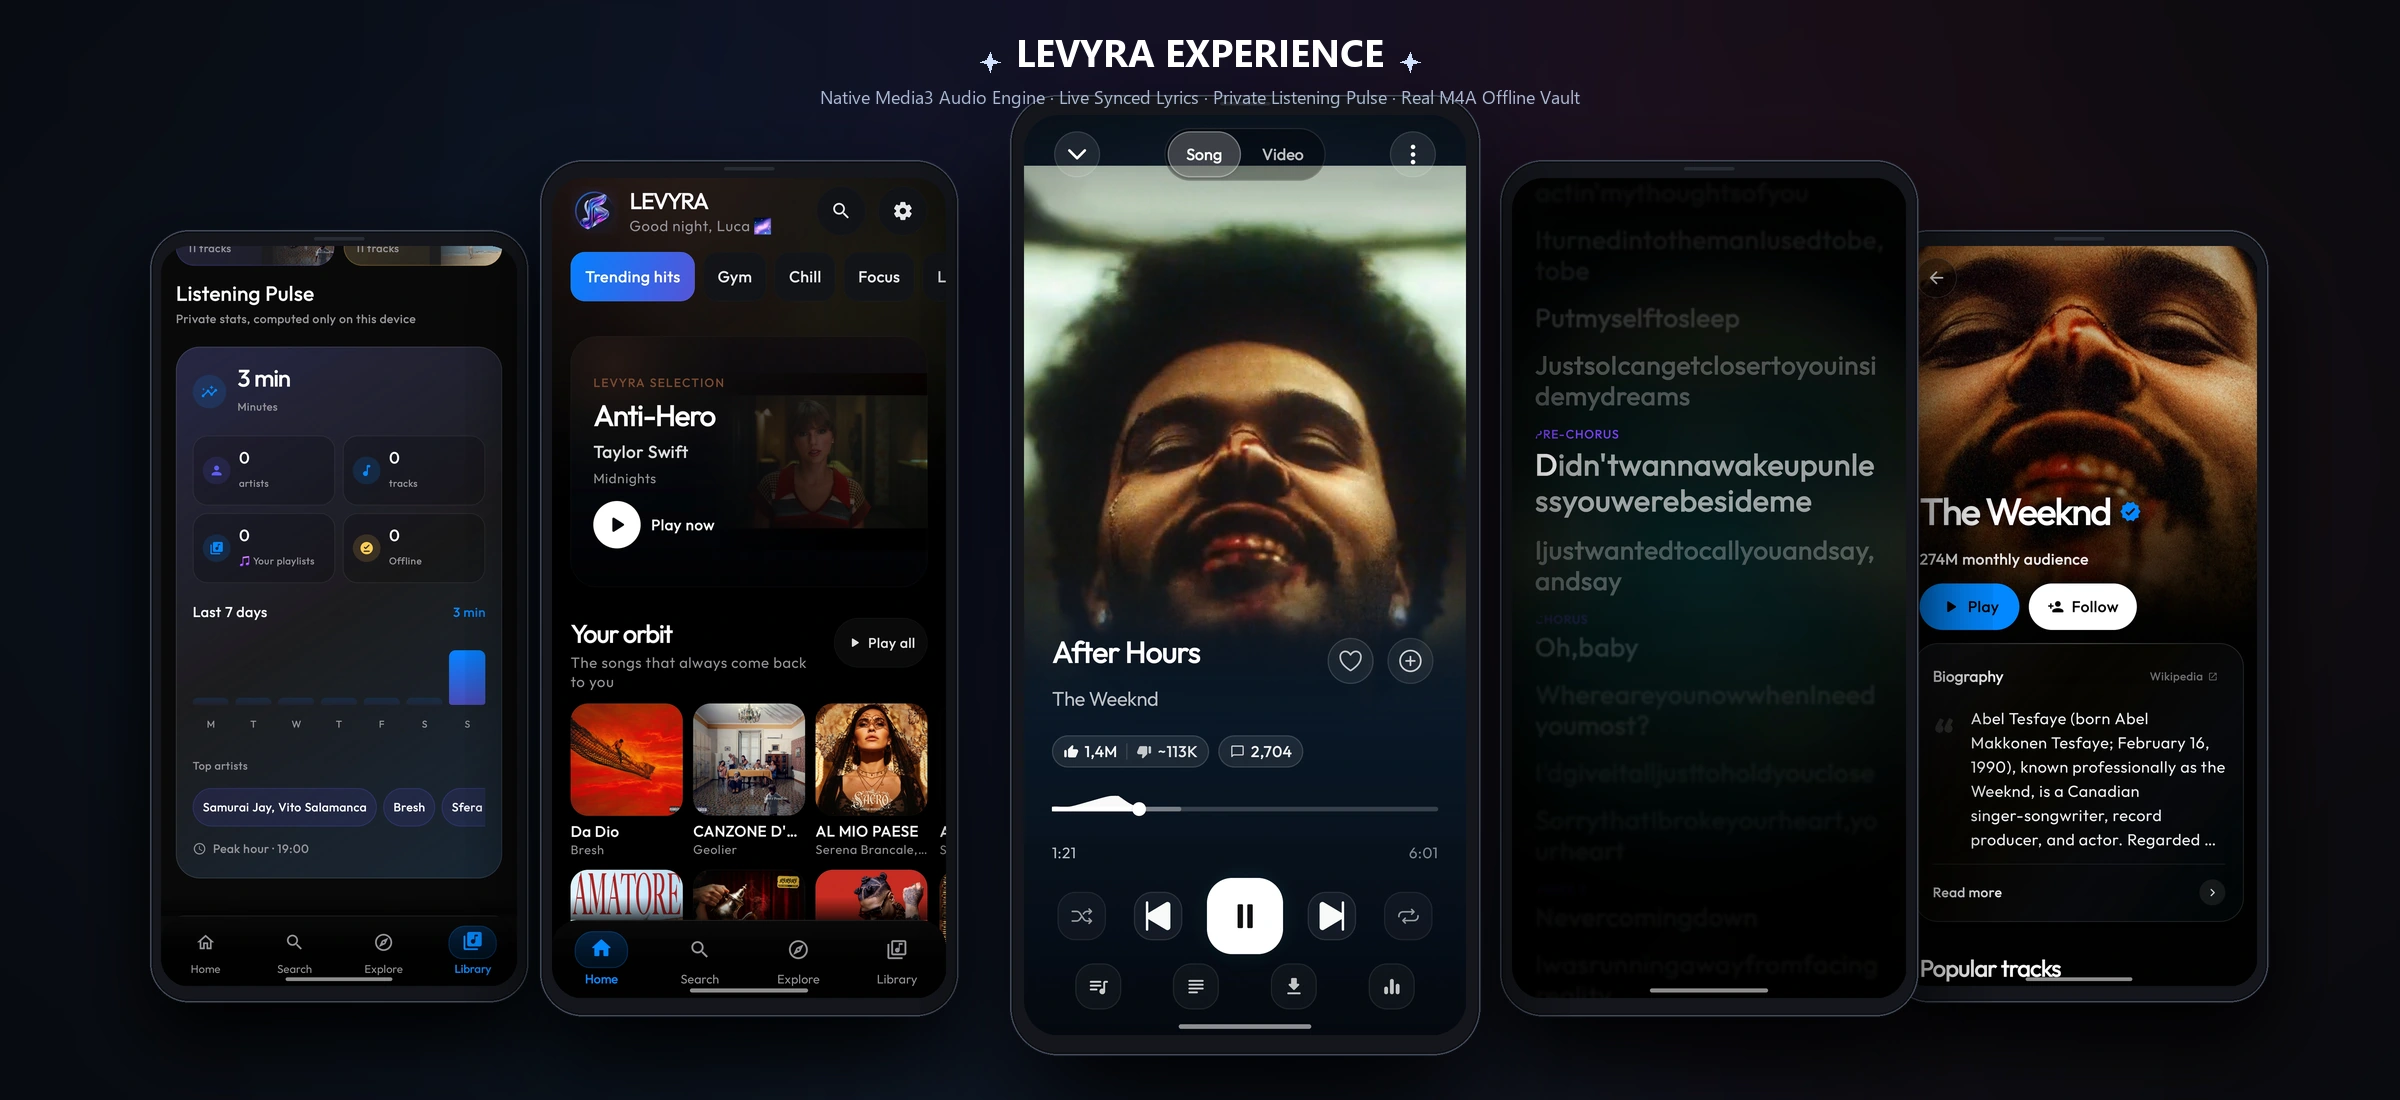
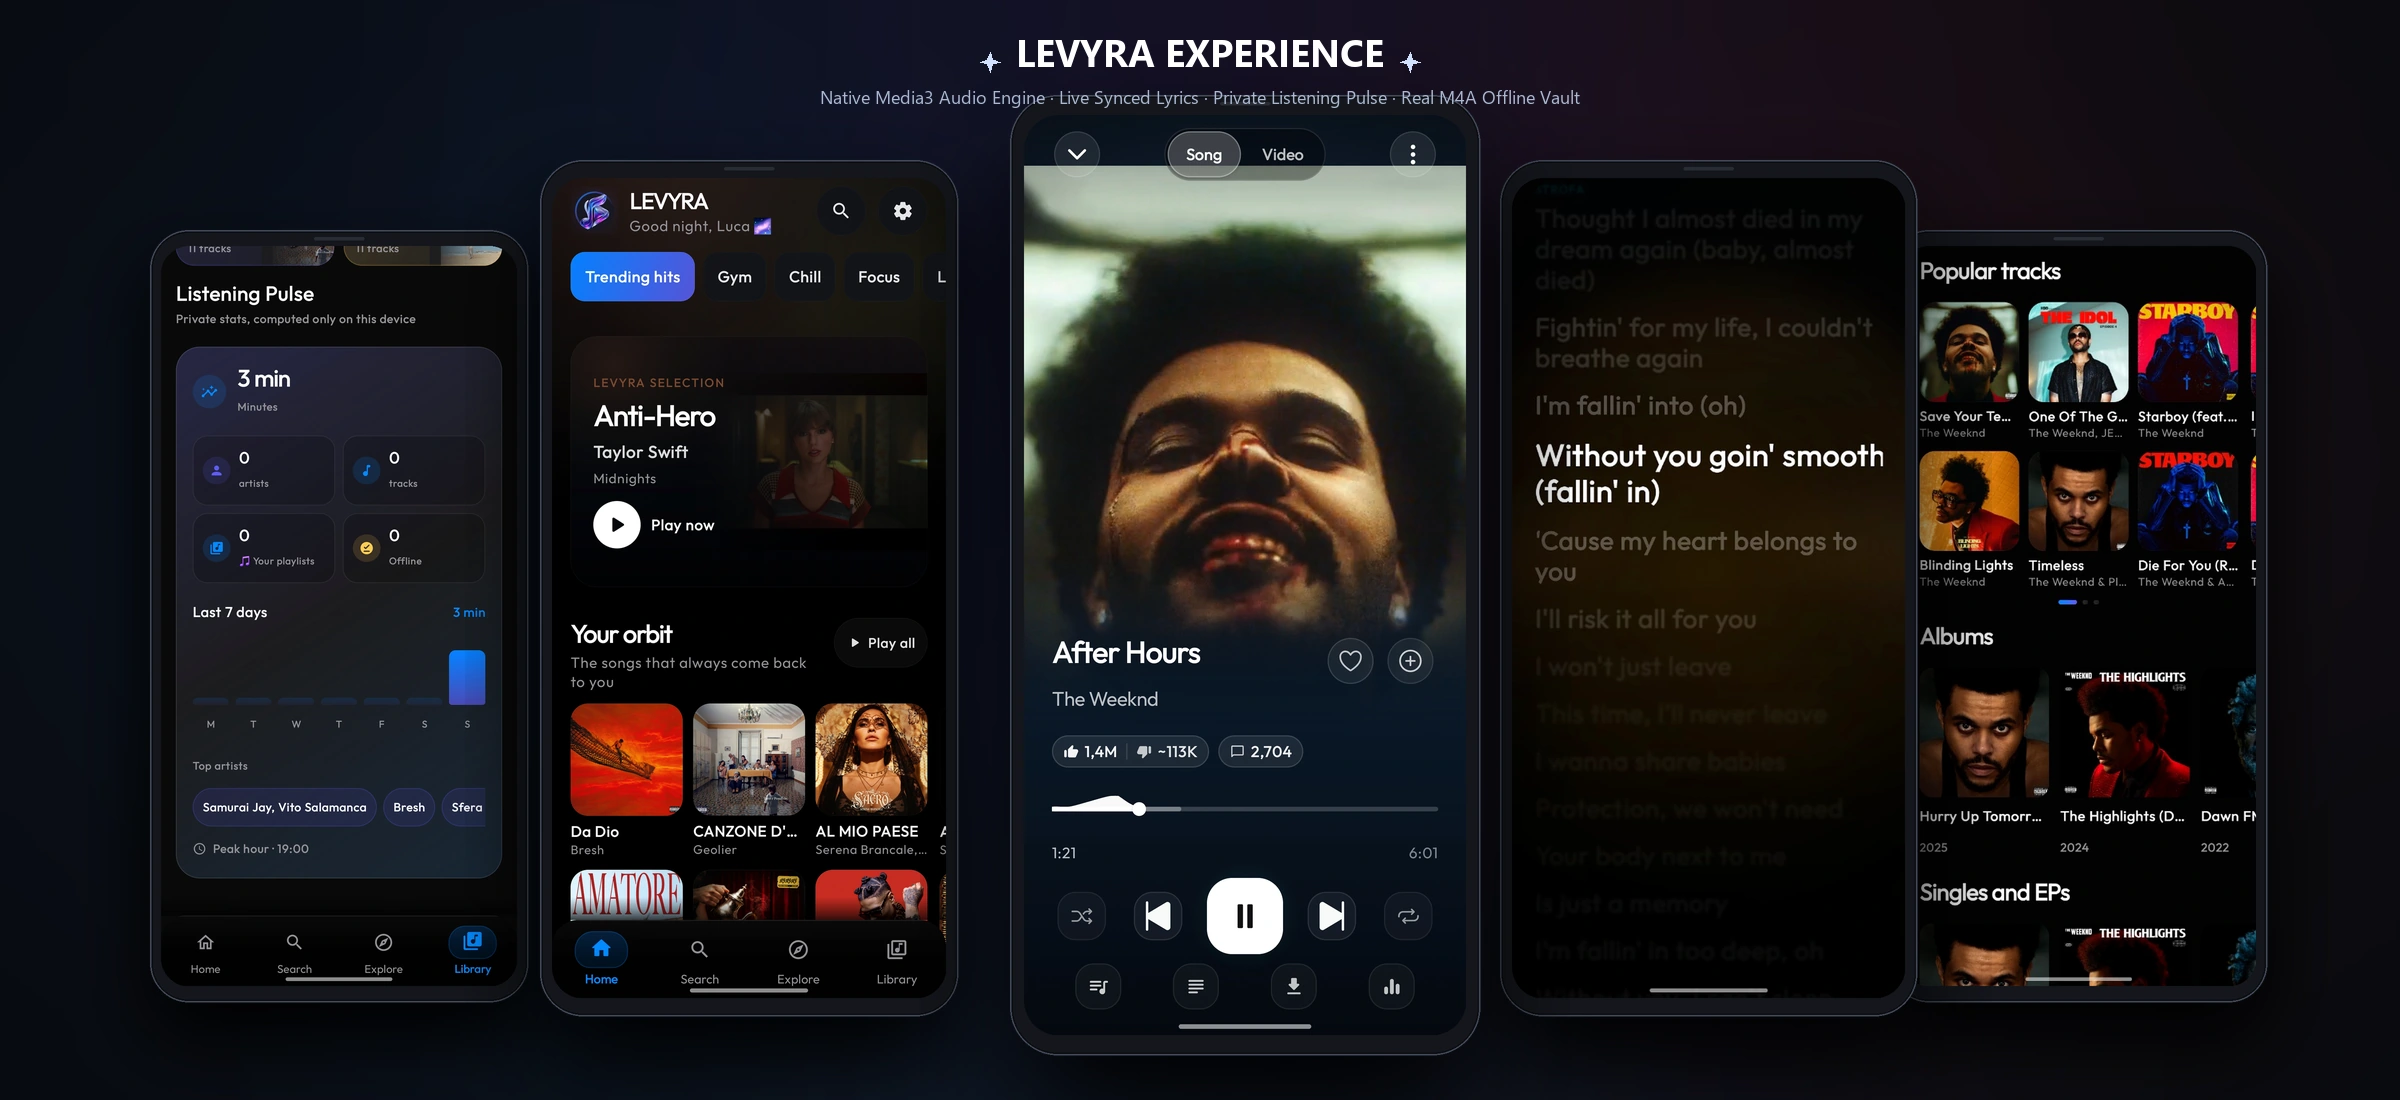
docs: refresh README screenshot showcase

Changed region(s): [[0.625, 0.2164, 0.9688, 0.7727], [0.7812, 0.8036, 0.9375, 0.8964]]

diff --git a/scripts/generate_showcase_assets.py b/scripts/generate_showcase_assets.py
@@ -3,7 +3,7 @@ import math
 import numpy as np
 from PIL import Image, ImageDraw, ImageFilter, ImageFont, ImageEnhance
 
-SCREENSHOT_DIR = r"C:\Users\Luca Drogo\Desktop\screenshot"
+SCREENSHOT_DIR = r"C:\Users\Luca Drogo\Desktop\screenshots"
 OUT_SHOWCASE_DIR = r"docs\assets\showcase"
 OUT_SCREENSHOTS_DIR = r"docs\assets\screenshots"
 
@@ -11,21 +11,14 @@ os.makedirs(OUT_SHOWCASE_DIR, exist_ok=True)
 os.makedirs(OUT_SCREENSHOTS_DIR, exist_ok=True)
 
 SCREENS = {
-    "home_orbit": "Screenshot_20260816_234335_LEVYRA.jpg",
-    "home_top50": "Screenshot_20260816_234345_LEVYRA.jpg",
-    "explore_samples": "Screenshot_20260816_234411_LEVYRA.jpg",
-    "explore_genres": "Screenshot_20260816_234414_LEVYRA.jpg",
-    "library_quickpicks": "Screenshot_20260816_234419_LEVYRA.jpg",
-    "library_pulse": "Screenshot_20260816_234421_LEVYRA.jpg",
-    "player_nowplaying": "Screenshot_20260816_234503_LEVYRA.jpg",
-    "search_artist_avatars": "Screenshot_20260816_234530_LEVYRA.jpg",
-    "lyrics_synced": "Screenshot_20260816_234701_LEVYRA.jpg",
-    "artist_bio": "Screenshot_20260816_234724_LEVYRA.jpg",
-    "artist_discography": "Screenshot_20260816_234730_LEVYRA.jpg",
-    "video_energy": "Screenshot_20260817_145820_LEVYRA.jpg",
-    "search_recent": "Screenshot_20260817_131545_LEVYRA.jpg",
-    "playlist_recent": "Screenshot_20260817_131607_LEVYRA.jpg",
-    "home_collections": "Screenshot_20260817_131624_LEVYRA.jpg",
+    "home": "screen-home.jpg",
+    "charts": "screen-charts.jpg",
+    "genres": "screen-genres.jpg",
+    "listening_pulse": "screen-listening-pulse.jpg",
+    "lyrics": "screen-lyrics.jpg",
+    "now_playing": "screen-player-nowplaying.jpg",
+    "search_artist": "screen-search-artist.jpg",
+    "artist_discography": "screen-artist-discography.jpg",
 }
 
 def get_font(size, bold=False):
@@ -308,8 +301,8 @@ def generate_hero_panoramic_showcase():
     canvas = Image.alpha_composite(canvas, glow3)
     canvas = Image.alpha_composite(canvas, glow4)
 
-    # 5 Key Screens: Library Pulse, Home Orbit, Now Playing, Synced Lyrics, Artist Bio
-    keys = ["library_pulse", "home_orbit", "player_nowplaying", "lyrics_synced", "artist_bio"]
+    # 5 Key Screens: Listening Pulse, Home, Now Playing, Synced Lyrics, Artist Discography
+    keys = ["listening_pulse", "home", "now_playing", "lyrics", "artist_discography"]
     imgs = [Image.open(os.path.join(SCREENSHOT_DIR, SCREENS[k])) for k in keys]
 
     p1 = create_phone_frame(imgs[0], target_height=740) # Pulse
@@ -375,121 +368,6 @@ def main():
     print("Generating refined Levyra showcase assets...")
     generate_individual_framed_screenshots()
     generate_hero_panoramic_showcase()
-
-    # Showcase 1: Now Playing & Live Synced Lyrics
-    generate_studio_dual_card(
-        card_id="01_playback_and_lyrics",
-        title_category="Acoustic Engine & Lyrics",
-        title_main="Immersive Playback &\nLive Synced Lyrics",
-        subtitle="Full-bleed visual canvas with high-res art,\nwaveform scrubber, and real-time LRCLIB karaoke sync.",
-        screen1_key="player_nowplaying",
-        screen2_key="lyrics_synced",
-        primary_glow_color=(235, 75, 90),
-        secondary_glow_color=(160, 70, 255),
-        features_list=[
-            "ExoPlayer & Media3 low-latency audio engine",
-            "Real-time synchronized line-by-line lyrics",
-            "Interactive tap-to-seek lyric scrubbing",
-            "Song & Native Video seamless toggle",
-            "Automatic SponsorBlock & silence skipping"
-        ]
-    )
-
-    # Showcase 2: Home Discovery & Global Top 50
-    generate_studio_dual_card(
-        card_id="02_home_and_charts",
-        title_category="Discovery & Exploration",
-        title_main="Smart Orbit Feed &\nGlobal Top Charts",
-        subtitle="Dynamic discovery tailored to your rhythm,\nwith live Top 50 charts across Italy, USA, UK, and Spain.",
-        screen1_key="home_orbit",
-        screen2_key="home_top50",
-        primary_glow_color=(60, 120, 255),
-        secondary_glow_color=(120, 80, 240),
-        features_list=[
-            "Personalized 'Your Orbit' dynamic rotation",
-            "Live international Top 50 chart selectors",
-            "Curated mood & activity quick chips",
-            "Dual InnerTube & LevyraExtractor pipelines",
-            "Instant prefetching for zero-latency skips"
-        ]
-    )
-
-    # Showcase 3: Deep Search & Artist Immersion
-    generate_studio_dual_card(
-        card_id="03_search_and_artist",
-        title_category="Artist Universe",
-        title_main="Deep Search &\nArtist Discography",
-        subtitle="Instant search suggestions, live artist matching,\nWikipedia biography cards, and full discographies.",
-        screen1_key="search_artist_avatars",
-        screen2_key="artist_bio",
-        primary_glow_color=(240, 160, 50),
-        secondary_glow_color=(210, 60, 120),
-        features_list=[
-            "Real-time search with instant artist bubbles",
-            "Wikipedia biography & monthly audience stats",
-            "Complete chronological albums, singles & EPs",
-            "One-tap follow & artist radio queues",
-            "Voice search & live waveform visualizer"
-        ]
-    )
-
-    # Showcase 4: Offline Vault & Listening Pulse
-    generate_studio_dual_card(
-        card_id="04_library_and_pulse",
-        title_category="Private Vault & Analytics",
-        title_main="Offline M4A Vault &\nListening Pulse",
-        subtitle="Real tagged audio files saved to storage, plus\na private on-device dashboard of your listening habits.",
-        screen1_key="playlist_recent",
-        screen2_key="library_pulse",
-        primary_glow_color=(70, 180, 255),
-        secondary_glow_color=(80, 100, 240),
-        features_list=[
-            "Standard M4A files with embedded tags & art",
-            "Local-first playback: zero network data wasted",
-            "Private 7-day listening activity & streaks",
-            "Real minutes-played ranking (no accidental taps)",
-            "100% on-device SQLite: zero tracking & telemetry"
-        ]
-    )
-
-    # Showcase 5: Video Mode, Samples & Energy Pulse
-    generate_studio_dual_card(
-        card_id="05_video_and_samples",
-        title_category="Visuals & Resonance",
-        title_main="Samples Clips &\nComment Energy",
-        subtitle="Explore short vertical video clips, music videos,\nand real-time audience resonance metrics.",
-        screen1_key="explore_samples",
-        screen2_key="video_energy",
-        primary_glow_color=(40, 210, 150),
-        secondary_glow_color=(255, 100, 80),
-        features_list=[
-            "Vertical 'Samples' teaser clips for fast discovery",
-            "Live video feeds with inline preview",
-            "Voci che risuonano: 73% energy metric",
-            "One-tap full video playback mode",
-            "High-resolution video stream extraction"
-        ]
-    )
-
-    # Showcase 6: Editorial Collections & Genre Matrix
-    generate_studio_dual_card(
-        card_id="06_collections_and_genres",
-        title_category="Curation & Moods",
-        title_main="Editorial Playlists &\nGenre Matrix",
-        subtitle="Handcrafted 4-tile artwork collections and\nan expansive spectrum of musical moods & subgenres.",
-        screen1_key="home_collections",
-        screen2_key="explore_genres",
-        primary_glow_color=(180, 70, 240),
-        secondary_glow_color=(240, 90, 160),
-        features_list=[
-            "4-tile dynamic editorial collection cards",
-            "Mood matrix: Rap, Lo-Fi, Electronic, J-Pop & more",
-            "Curated 'After hours' & 'Quick picks' mixes",
-            "Artist ring avatars with neon glow accents",
-            "One-tap playlist generation & shuffle"
-        ]
-    )
-
     print("Showcase generation completed successfully!")
 
 if __name__ == "__main__":

diff --git a/README.md b/README.md
@@ -138,61 +138,27 @@ Artwork, lyrics, queue position, listening history and recommendations still bel
 
 <div align="center">
 
-<picture>
-  <source media="(prefers-color-scheme: light)" srcset="docs/assets/showcase/00_levyra_hero_showcase-light.webp">
-  <source media="(prefers-color-scheme: dark)" srcset="docs/assets/showcase/00_levyra_hero_showcase.webp">
-  <img src="docs/assets/showcase/00_levyra_hero_showcase.webp" alt="Levyra interface preview" width="100%" />
-</picture>
+<img src="docs/assets/showcase/00_levyra_hero_showcase.webp" alt="Levyra interface across five phones" width="100%" />
+
+<br>
+
+<sub>A closer look at the player, synced lyrics, discovery, artists, and private listening stats.</sub>
 
 <br><br>
 
-| | |
-| :---: | :---: |
-| <picture><source media="(prefers-color-scheme: light)" srcset="docs/assets/showcase/01_playback_and_lyrics-light.webp"><source media="(prefers-color-scheme: dark)" srcset="docs/assets/showcase/01_playback_and_lyrics.webp"><img src="docs/assets/showcase/01_playback_and_lyrics.webp" alt="Playback and synced lyrics" width="100%" /></picture> | <picture><source media="(prefers-color-scheme: light)" srcset="docs/assets/showcase/02_home_and_charts-light.webp"><source media="(prefers-color-scheme: dark)" srcset="docs/assets/showcase/02_home_and_charts.webp"><img src="docs/assets/showcase/02_home_and_charts.webp" alt="Home feed and charts" width="100%" /></picture> |
-| **Playback & synced lyrics**<br><sub>Android uses ExoPlayer and Windows uses libVLC. Synced lyrics support millisecond timing offsets, romanization across multiple scripts, and shareable lyric cards.</sub> | **Home feed & top charts**<br><sub>Your Orbit rotates through personal picks, mood tags help you browse, and international Top 50 charts update in the background.</sub> |
-| <picture><source media="(prefers-color-scheme: light)" srcset="docs/assets/showcase/03_search_and_artist-light.webp"><source media="(prefers-color-scheme: dark)" srcset="docs/assets/showcase/03_search_and_artist.webp"><img src="docs/assets/showcase/03_search_and_artist.webp" alt="Search and artist profiles" width="100%" /></picture> | <picture><source media="(prefers-color-scheme: light)" srcset="docs/assets/showcase/04_library_and_pulse-light.webp"><source media="(prefers-color-scheme: dark)" srcset="docs/assets/showcase/04_library_and_pulse.webp"><img src="docs/assets/showcase/04_library_and_pulse.webp" alt="Local library and stats" width="100%" /></picture> |
-| **Search & artist discographies**<br><sub>Search shows results right away, with Wikipedia summaries and complete artist discographies ordered by release date.</sub> | **M4A downloads & listening stats**<br><sub>Downloads are saved as tagged M4A files in normal device storage. Listening Pulse shows 7-day trends from stats stored locally in SQLite.</sub> |
-| <picture><source media="(prefers-color-scheme: light)" srcset="docs/assets/showcase/05_video_and_samples-light.webp"><source media="(prefers-color-scheme: dark)" srcset="docs/assets/showcase/05_video_and_samples.webp"><img src="docs/assets/showcase/05_video_and_samples.webp" alt="Short clips and video" width="100%" /></picture> | <picture><source media="(prefers-color-scheme: light)" srcset="docs/assets/showcase/06_collections_and_genres-light.webp"><source media="(prefers-color-scheme: dark)" srcset="docs/assets/showcase/06_collections_and_genres.webp"><img src="docs/assets/showcase/06_collections_and_genres.webp" alt="Playlists and genres" width="100%" /></picture> |
-| **Vertical clips & video feed**<br><sub>Browse short vertical previews, full music video feeds, and live comment activity.</sub> | **Editorial playlists & genres**<br><sub>Browse curated collections and genres such as Rap, Lo-Fi, Anime, Electronic, and more.</sub> |
-
-</div>
+<a href="docs/assets/screenshots/home.webp"><img src="docs/assets/screenshots/home.webp" width="190" alt="Levyra home and Your Orbit" /></a>
+<a href="docs/assets/screenshots/now_playing.webp"><img src="docs/assets/screenshots/now_playing.webp" width="190" alt="Levyra Now Playing screen" /></a>
+<a href="docs/assets/screenshots/lyrics.webp"><img src="docs/assets/screenshots/lyrics.webp" width="190" alt="Levyra synchronized lyrics" /></a>
+<a href="docs/assets/screenshots/charts.webp"><img src="docs/assets/screenshots/charts.webp" width="190" alt="Levyra international charts" /></a>
 
 <br>
 
-<details>
-<summary><b>✦ Browse full gallery (15 high-res views)</b></summary>
-<br>
-
-<div align="center">
-
-#### Playback & lyrics
-| Now Playing Canvas | Synchronized Lyrics |
-| :---: | :---: |
-| <img src="docs/assets/screenshots/player_nowplaying.webp" width="380" alt="Now Playing Canvas"> | <img src="docs/assets/screenshots/lyrics_synced.webp" width="380" alt="Synchronized Lyrics"> |
-
-#### Home & discovery
-| Home Selection & Orbit | Global Top 50 Charts | Editorial Collections |
-| :---: | :---: | :---: |
-| <img src="docs/assets/screenshots/home_orbit.webp" width="260" alt="Home Orbit"> | <img src="docs/assets/screenshots/home_top50.webp" width="260" alt="Global Top 50"> | <img src="docs/assets/screenshots/home_collections.webp" width="260" alt="Editorial Collections"> |
-
-#### Search & artists
-| Search Discovery & Recent | Live Artist Results | Artist Profile & Bio | Artist Discography |
-| :---: | :---: | :---: | :---: |
-| <img src="docs/assets/screenshots/search_recent.webp" width="200" alt="Search History"> | <img src="docs/assets/screenshots/search_artist_avatars.webp" width="200" alt="Artist Search"> | <img src="docs/assets/screenshots/artist_bio.webp" width="200" alt="Artist Bio"> | <img src="docs/assets/screenshots/artist_discography.webp" width="200" alt="Discography"> |
-
-#### Offline vault & listening stats
-| Library Quick Picks | Listening Pulse Analytics | Playlist Details |
-| :---: | :---: | :---: |
-| <img src="docs/assets/screenshots/library_quickpicks.webp" width="260" alt="Library Quick Picks"> | <img src="docs/assets/screenshots/library_pulse.webp" width="260" alt="Listening Pulse"> | <img src="docs/assets/screenshots/playlist_recent.webp" width="260" alt="Playlist Details"> |
-
-#### Explore & video
-| Vertical Samples Clips | Moods & Subgenre Matrix | Video Feed & Energy |
-| :---: | :---: | :---: |
-| <img src="docs/assets/screenshots/explore_samples.webp" width="260" alt="Samples Clips"> | <img src="docs/assets/screenshots/explore_genres.webp" width="260" alt="Genres Matrix"> | <img src="docs/assets/screenshots/video_energy.webp" width="260" alt="Video Feed"> |
+<a href="docs/assets/screenshots/search_artist.webp"><img src="docs/assets/screenshots/search_artist.webp" width="190" alt="Levyra artist search" /></a>
+<a href="docs/assets/screenshots/artist_discography.webp"><img src="docs/assets/screenshots/artist_discography.webp" width="190" alt="Levyra artist discography" /></a>
+<a href="docs/assets/screenshots/genres.webp"><img src="docs/assets/screenshots/genres.webp" width="190" alt="Levyra moods and genres" /></a>
+<a href="docs/assets/screenshots/listening_pulse.webp"><img src="docs/assets/screenshots/listening_pulse.webp" width="190" alt="Levyra private listening stats" /></a>
 
 </div>
-
-</details>
 
 ---
 
